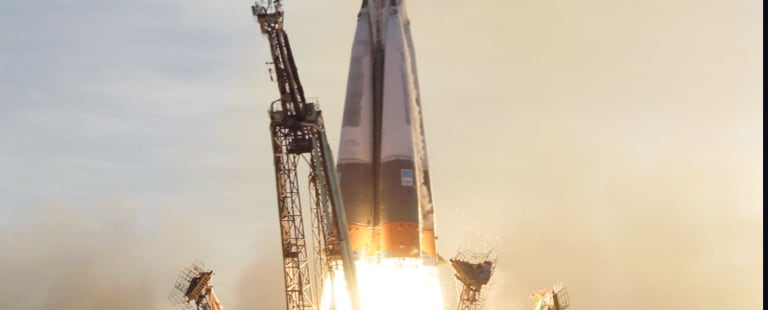
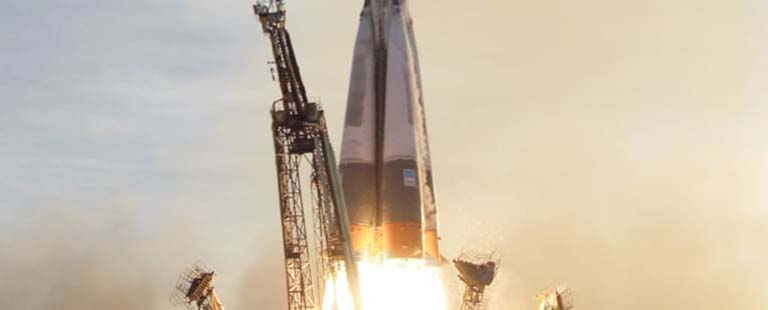
fixes

diff --git a/css/index.css b/css/index.css
@@ -300,6 +300,9 @@ select {
     justify-content: space-between;
     align-items: center;
 }
+.primary-header nav {
+    align-self: flex-start;
+}
 .primary-nav-accent {
     display: none;
 }
@@ -585,8 +588,8 @@ body {
     text-align: center;
     display: grid;
     place-items: center;
-    padding-inline: 1rem;
-    padding-bottom: 4rem;
+    /* padding-inline: 1rem; */
+    /* padding-bottom: 4rem; */
 }
 
 .numbered-title {
@@ -621,8 +624,12 @@ body {
 .destination-info {
     /* --flow-space: 1.25rem; */
     width: 100%;
-    max-width: 80%;
+    /* max-width: 80%; */
     align-self: flex-start;
+}
+.destination-info > p {
+    max-width: min(85vw, 65ch);
+    margin-inline: auto;
 }
 
 .destination-info p {
@@ -674,8 +681,9 @@ body {
     color: hsl( var(--clr-white) / .5 );
 }
 
-.grid-container--crew > .crew-info p {
+.grid-container--crew > .crew-info > p {
     max-width: min(85vw, 51ch);
+    --flow-space: 0;
 }
 
 /* technology layout */
@@ -703,16 +711,18 @@ body {
     flex-direction: column;
     align-items: center;
 }
-.grid-container--technology > .technology-info > p {
-    max-width: min(85vw, 35ch);
+.grid-container--technology > .technology-info  p {
+    max-width: min(85vw, 51ch);
 }
 
 
 @media (min-width: 35em) {
+    /* all pages */
     .numbered-title {
         justify-self: start;
         margin-block-start: 2rem;
     }
+    /* destination */
     .destination-meta {
         flex-direction: row;
         justify-content: space-evenly;
@@ -720,6 +730,7 @@ body {
     .destination-meta-item {
         margin-top: 0;
     }
+    /* crew */
     .grid-container--crew {
         padding-bottom: 0;
         /* --flow-space: 2rem; */
@@ -728,16 +739,19 @@ body {
             'content'
             'tabs'
             'image';
-    }    
+    }
 }
 
 @media (min-width: 50em ) {
+    
+    /* all pages */
     .grid-container {
         text-align: left;
         column-gap: var(--container-gap, 2rem);
         grid-template-columns: minmax(1rem, 1fr) repeat(2, minmax(0, 35rem)) minmax(1rem, 1fr);
     }
 
+    /* home */
     .grid-container--home {
         padding-bottom: max(6rem, 20vh);
         align-items: end;
@@ -751,6 +765,7 @@ body {
         grid-column: 3;
     }
 
+    /* destination */
     .grid-container--destination {
         justify-items: start;
         align-content: start;
@@ -758,6 +773,7 @@ body {
             '. title title .'
             '. image tabs .'
             '. image content .';
+        grid-template-rows: 1fr 1fr auto 1fr;
     }
     .grid-container--destination > picture,
     .grid-container--crew > picture {
@@ -774,12 +790,15 @@ body {
         --gap: min(5vw, 6rem);
         justify-content: start;
     } 
+
+    /* crew */
     .grid-container--crew {
-        /* --flow-space: 2rem; */
+        --flow-space: 0;
         grid-template-areas:
             '. title image .'
             '. content image .'
             '. tabs image .';
+        grid-template-rows: 1fr auto 1fr;
     }
     .grid-container--crew > .dot-indicators {
         justify-self: start;
@@ -791,15 +810,48 @@ body {
         align-items: start;
     }
     .grid-container--crew > .crew-info > p {
+        --flow-space: initial;
         max-width: min(85vw, 45ch);
     }
     .grid-container--crew > .crew-info > header > p {
         white-space: nowrap;
     }
-
     .grid-container--crew > picture {
         grid-column: span 2;
         align-self: end;
     }
-    
+
+    /* technology */
+    .grid-container--technology {
+        grid-template-columns: minmax(1rem, 1fr) clamp(3rem, 8vw, 8rem) minmax(0, 35rem) minmax(0, 35rem) minmax(1rem, 1fr);
+        grid-template-rows: 1fr auto 1fr;
+    }
+
+    .grid-container--technology {
+        --flow-space: 0;
+        grid-template-areas:
+            '. title title image .'
+            '. tabs content image .'
+            '. . . image .';
+    }
+    .grid-container--technology > .number-indicators {
+        flex-direction: column;
+        justify-self: start;
+    }
+    .grid-container--technology > .technology-info {
+        /* width: 100%;
+        max-width: 80%; */
+        justify-self: start;
+        align-items: start;
+    }
+    .grid-container--technology > .technology-info > p {
+        max-width: min(85vw, 43ch);
+    }
+
+
+    .grid-container--technology > picture {
+        grid-column: span 2;
+        /* align-self: end; */
+    }
+
 }

diff --git a/technology.html b/technology.html
@@ -42,27 +42,27 @@
 
     <!-- Pictures -->
     <picture id="vehicle-image">
-      <!-- <source srcset="assets/destination/image-moon.webp" type="image/webp"> -->
+      <source media="(min-width: 50em)" srcset="assets/technology/image-launch-vehicle-portrait.jpg">
       <img src="assets/technology/image-launch-vehicle-landscape.jpg" alt="the launch vehicle">
     </picture>
     <picture hidden id="spaceport-image">
-      <!-- <source srcset="assets/destination/image-mars.webp" type="image/webp"> -->
+      <source media="(min-width: 50em)" srcset="assets/technology/image-spaceport-vehicle-portrait.jpg">
       <img src="assets/technology/image-spaceport-landscape.jpg" alt="the spaceport">
     </picture>
     <picture hidden id="capsule-image">
-      <!-- <source srcset="assets/destination/image-europa.webp" type="image/webp"> -->
+      <source media="(min-width: 50em)" srcset="assets/technology/image-space-capsule-vehicle-portrait.jpg">
       <img src="assets/technology/image-space-capsule-landscape.jpg" alt="the space capsule">
     </picture>
 
     <!-- Numbers -->
     <div role="tablist" aria-label="technology list" class="number-indicators flex">
         <button aria-selected="true" role="tab" aria-controls="vehicle-tab" tabindex="0" class="number-indicator uppercase ff-serif fs-600 text-white bg-dark" data-image="vehicle-image">1</button>
-        <button aria-selected="false" role="tab" aria-controls="spaceport-tab" tabindex="-1" class="number-indicator uppercase ff-serif fs-600 text-white bg-dark hovered" data-image="spaceport-image">2</button>
+        <button aria-selected="false" role="tab" aria-controls="spaceport-tab" tabindex="-1" class="number-indicator uppercase ff-serif fs-600 text-white bg-dark" data-image="spaceport-image">2</button>
         <button aria-selected="false" role="tab" aria-controls="capsule-tab" tabindex="-1" class="number-indicator uppercase ff-serif fs-600 text-white bg-dark" data-image="capsule-image">3</button>
     </div>
 
     <!-- Vehicle -->
-    <article id="vehicle-tab" role="tabpanel" tabindex="0" class="technology-info flex flow">
+    <article id="vehicle-tab" role="tabpanel" tabindex="0" class="technology-info flex">
       <header class="flow flow--space-small">
         <p class="uppercase ff-sans-cond text-accent letter-spacing-2">The terminology...</p>
         <h2 class="fs-700 uppercase ff-serif">Launch vehicle</h2>
@@ -75,7 +75,37 @@
         it's quite an awe-inspiring sight on the launch pad!
       </p>
     </article>
-  
+
+    <!-- spaceport -->
+    <article id="spaceport-tab" role="tabpanel" tabindex="0" class="technology-info flex">
+      <header class="flow flow--space-small">
+        <p class="uppercase ff-sans-cond text-accent letter-spacing-2">The terminology...</p>
+        <h2 class="fs-700 uppercase ff-serif">Launch vehicle</h2>
+      </header>
+
+      <p class="text-accent line-height-2">
+        A launch vehicle or carrier rocket is a rocket-propelled vehicle used to carry a 
+        payload from Earth's surface to space, usually to Earth orbit or beyond. Our 
+        WEB-X carrier rocket is the most powerful in operation. Standing 150 metres tall, 
+        it's quite an awe-inspiring sight on the launch pad!
+      </p>
+    </article>
+
+    <!-- capsule -->
+    <article id="capsule-tab" role="tabpanel" tabindex="0" class="technology-info flex">
+      <header class="flow flow--space-small">
+        <p class="uppercase ff-sans-cond text-accent letter-spacing-2">The terminology...</p>
+        <h2 class="fs-700 uppercase ff-serif">Launch vehicle</h2>
+      </header>
+
+      <p class="text-accent line-height-2">
+        A launch vehicle or carrier rocket is a rocket-propelled vehicle used to carry a 
+        payload from Earth's surface to space, usually to Earth orbit or beyond. Our 
+        WEB-X carrier rocket is the most powerful in operation. Standing 150 metres tall, 
+        it's quite an awe-inspiring sight on the launch pad!
+      </p>
+    </article>
+    
 
   </main>
 </body>

diff --git a/destination.html b/destination.html
@@ -72,7 +72,7 @@
 
         <h2 class="fs-800 ff-serif uppercase">Moon</h2>
 
-        <p class="text-accent line-height-2" style="max-width: min(85vw, 49ch); margin-inline: auto;">
+        <p class="text-accent line-height-2">
           See our planet as you’ve never seen it before. A perfect relaxing trip away to help 
           regain perspective and come back refreshed. While you’re there, take in some history 
           by visiting the Luna 2 and Apollo 11 landing sites.
@@ -95,7 +95,7 @@
 
         <h2 class="fs-800 ff-serif uppercase">Mars</h2>
 
-        <p class="text-accent line-height-2" style="max-width: min(85vw, 49ch); margin-inline: auto;">
+        <p class="text-accent line-height-2">
           Don’t forget to pack your hiking boots. You’ll need them to tackle Olympus Mons, 
           the tallest planetary mountain in our solar system. It’s two and a half times 
           the size of Everest!
@@ -118,7 +118,7 @@
 
         <h2 class="fs-800 ff-serif uppercase">Europa</h2>
 
-        <p class="text-accent line-height-2" style="max-width: min(85vw, 49ch); margin-inline: auto;">
+        <p class="text-accent line-height-2">
           The smallest of the four Galilean moons orbiting Jupiter, Europa is a 
           winter lover’s dream. With an icy surface, it’s perfect for a bit of 
           ice skating, curling, hockey, or simple relaxation in your snug wintery cabin.
@@ -141,7 +141,7 @@
         
         <h2 class="fs-800 ff-serif uppercase">Titan</h2>
         
-        <p class="text-accent line-height-2" style="max-width: min(85vw, 49ch); margin-inline: auto;">
+        <p class="text-accent line-height-2">
           The only moon known to have a dense atmosphere other than Earth, Titan 
           is a home away from home (just a few hundred degrees colder!). As a 
           bonus, you get striking views of the Rings of Saturn.
